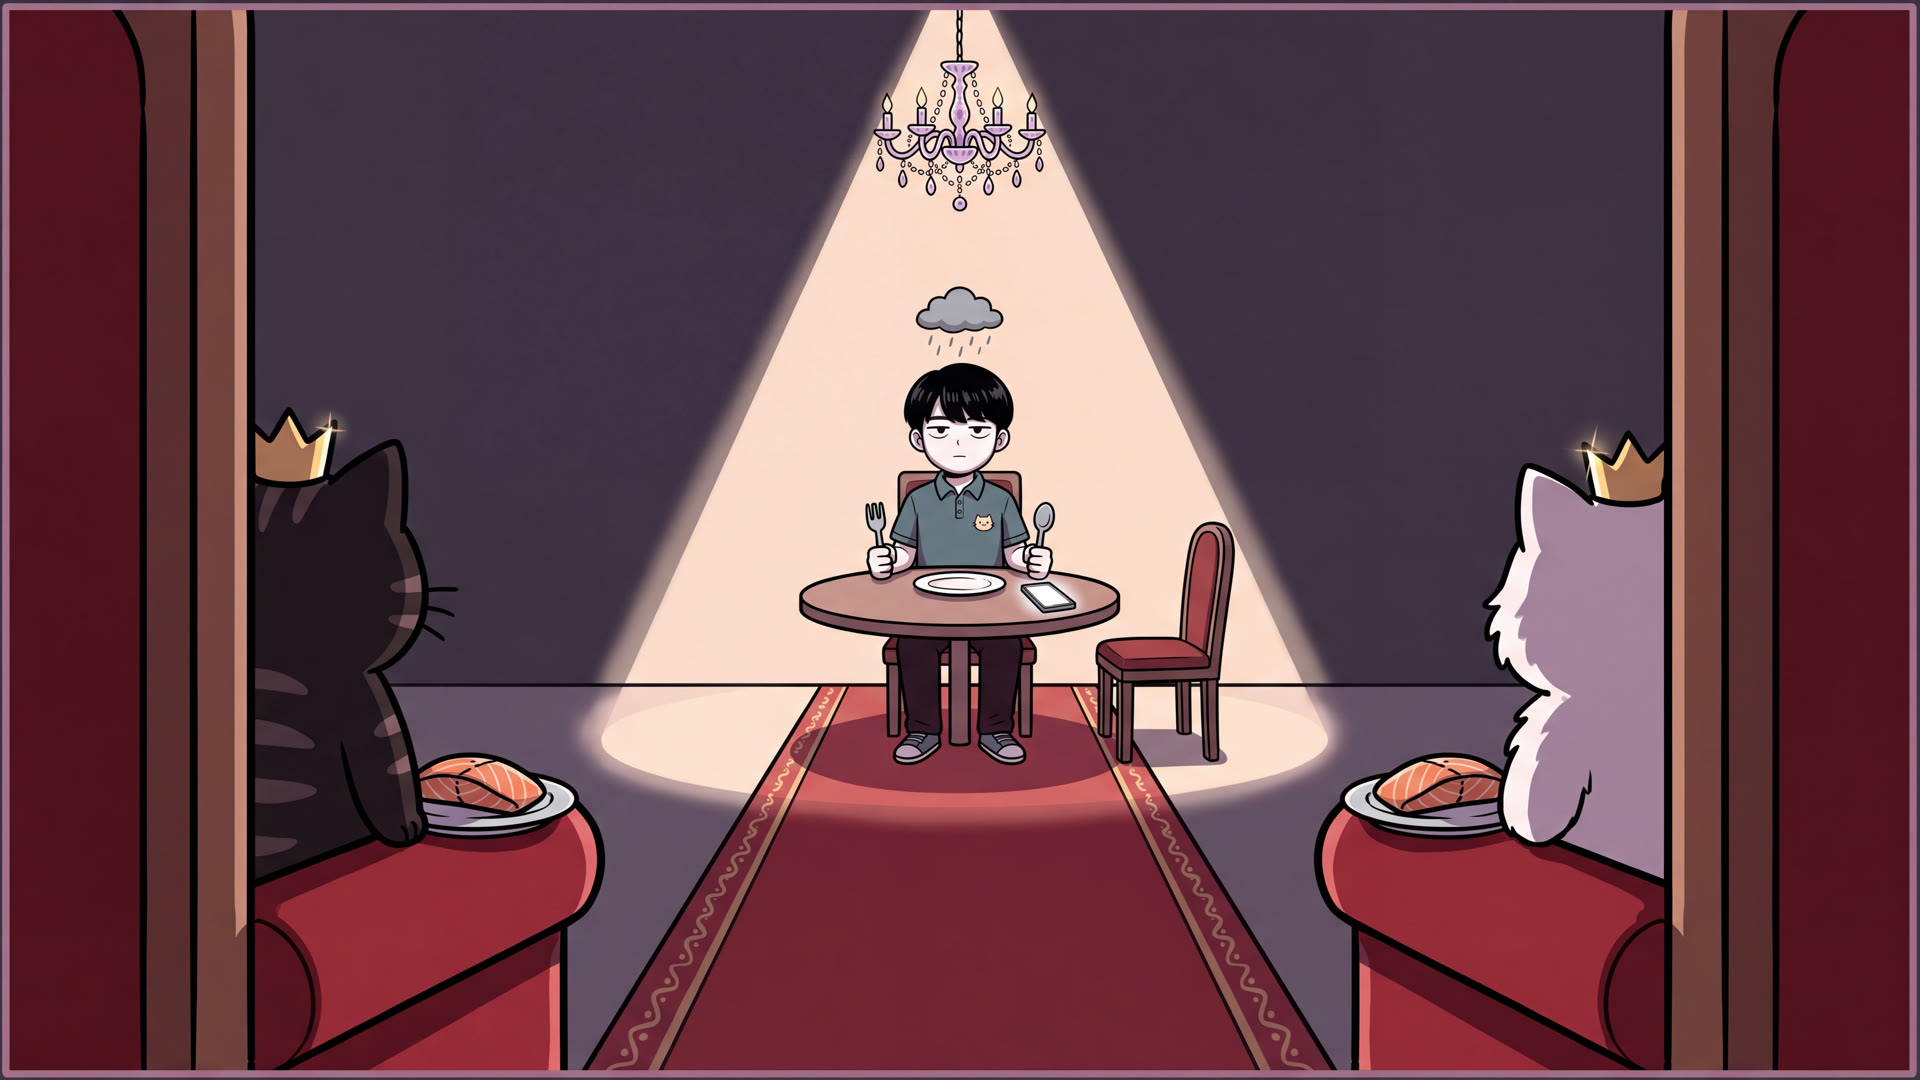
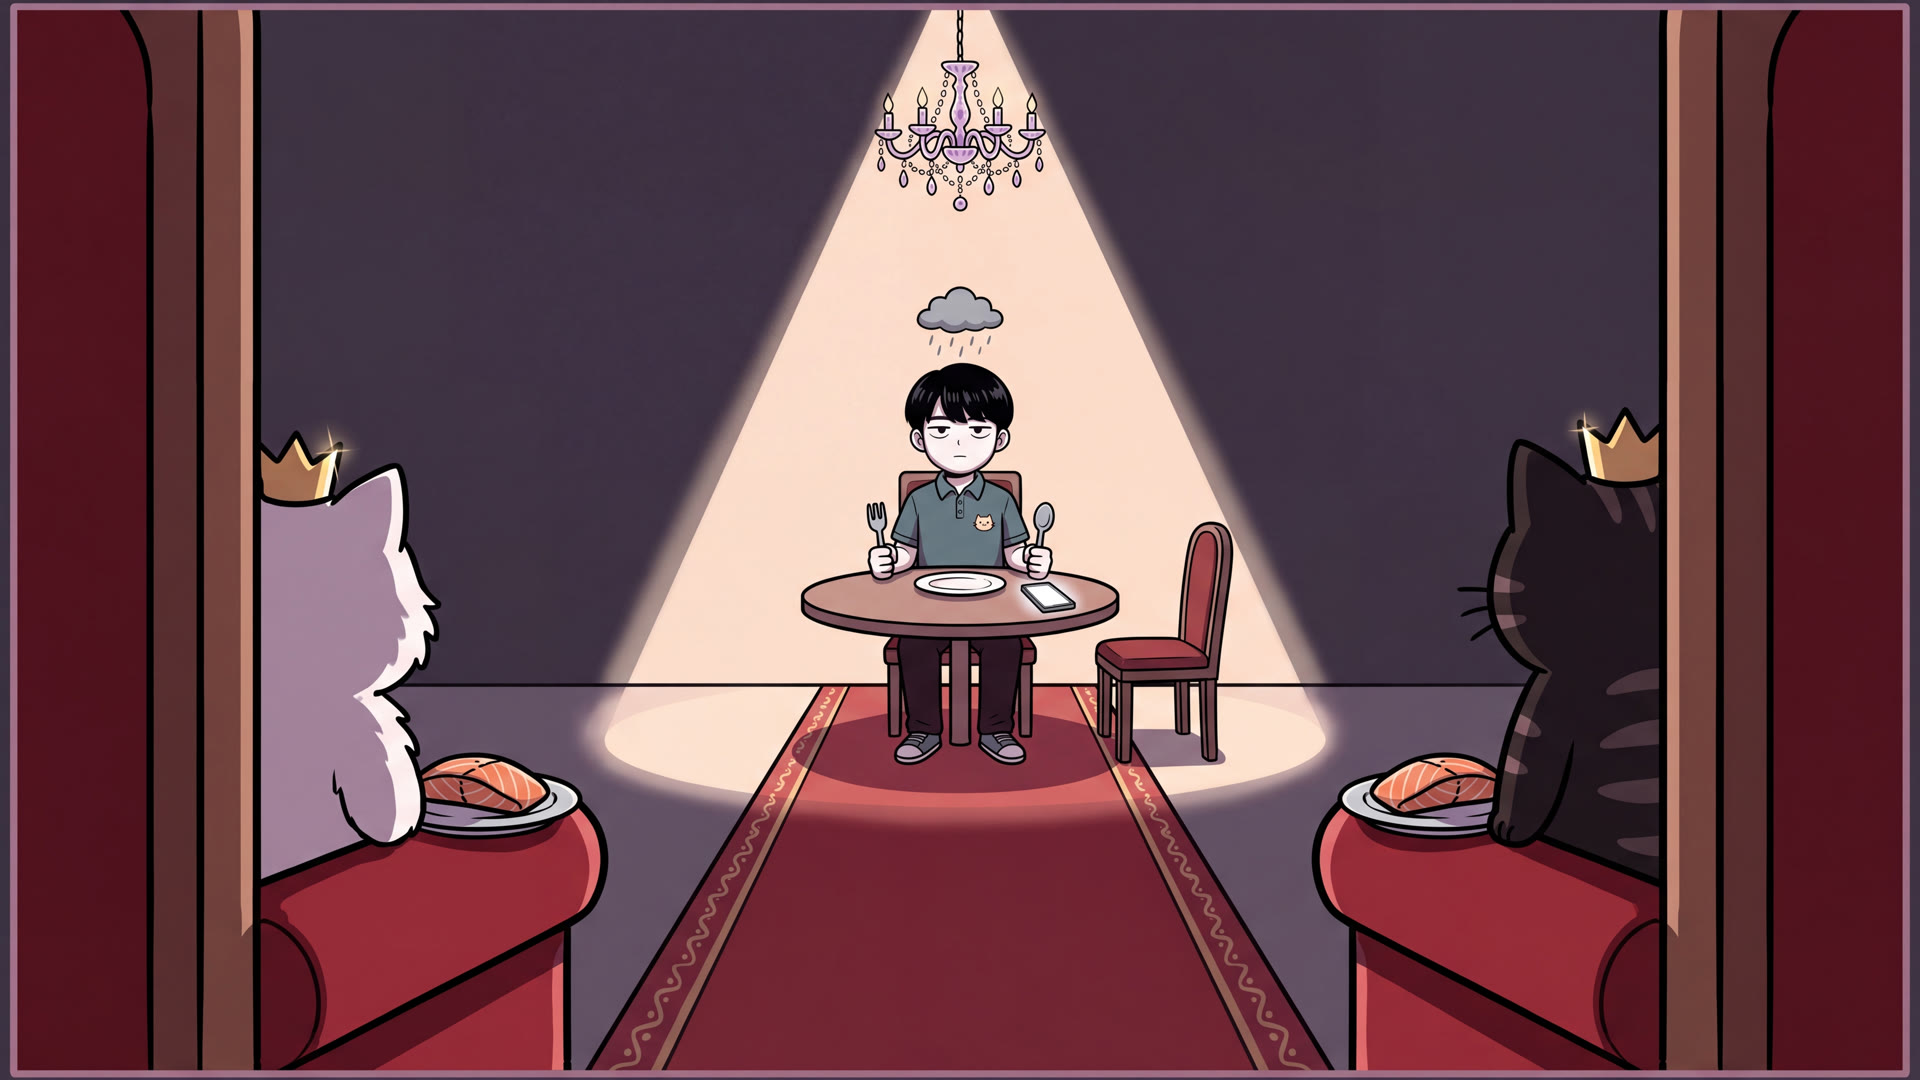
PC-05: swap the cats (Tofu left, Miso right) by mirroring the symmetric set, no credits; add tools/mirror_swap.py
Claude-Session: https://claude.ai/code/session_01Wfk5ePJ22LN7xs1AbjaDY5

diff --git a/storyboard/tools/mirror_swap.py b/storyboard/tools/mirror_swap.py
@@ -1,0 +1,37 @@
+"""Swap what stands on the left and right of a mirror-symmetric frame (no Higgsfield credits).
+
+Inside the given box and its mirror twin, the frame is replaced by its own reflection about
+the vertical axis, so whatever sits in the left box appears flipped on the right and vice
+versa (both still face the centre). Everything outside the two boxes is untouched. Use it
+only where the set itself is symmetric (thrones, doorframes, carpet).
+
+usage: python3 -I mirror_swap.py IN.png OUT.png --box x0,y0,x1,y1 [--box ...] [--axis X]
+       each box is a LEFT box in full-resolution pixels; axis defaults to a best-fit search.
+"""
+import argparse
+import numpy as np
+from PIL import Image
+from scipy import ndimage as ndi
+
+ap = argparse.ArgumentParser()
+ap.add_argument("inp"); ap.add_argument("out")
+ap.add_argument("--box", action="append", required=True); ap.add_argument("--axis", type=float)
+a = ap.parse_args()
+img = np.asarray(Image.open(a.inp).convert("RGB")).astype(np.float32)
+H, W, _ = img.shape
+if a.axis is None:  # best mirror axis from the top third (walls, frames)
+    band = img[int(.05 * H):int(.33 * H)]
+    ks = np.arange(int(.08 * W), int(.45 * W))
+    best = min((np.abs(band[:, a2 // 2 - ks] - band[:, a2 - (a2 // 2 - ks)]).mean(), a2) for a2 in range(W - 80, W + 81) if (a2 - (a2 // 2 - ks)).max() < W)
+    a.axis = best[1] / 2
+two = int(round(2 * a.axis))
+mir = img[:, ::-1][:, (W - 1 - two) % W:][:, :W] if two == W - 1 else img[:, np.clip(two - np.arange(W), 0, W - 1)]
+m = np.zeros((H, W), np.float32)
+for b in a.box:  # several left boxes can trace the subject and stay clear of asymmetric light
+    x0, y0, x1, y1 = map(int, b.split(","))
+    m[y0:y1, x0:x1] = 1
+    m[y0:y1, two - x1 + 1:two - x0 + 1] = 1
+m = ndi.gaussian_filter(m, 3)[..., None]
+out = img * (1 - m) + mir * m
+Image.fromarray(np.clip(out, 0, 255).astype(np.uint8)).save(a.out)
+print(f"{W}x{H} axis {a.axis}, {len(a.box)} box(es) swapped")
